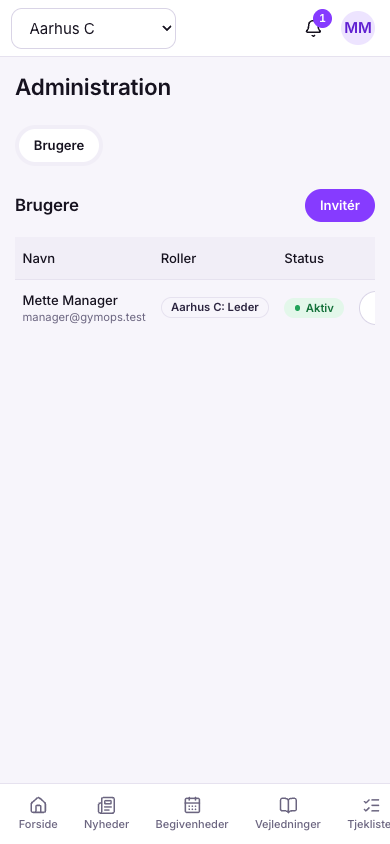
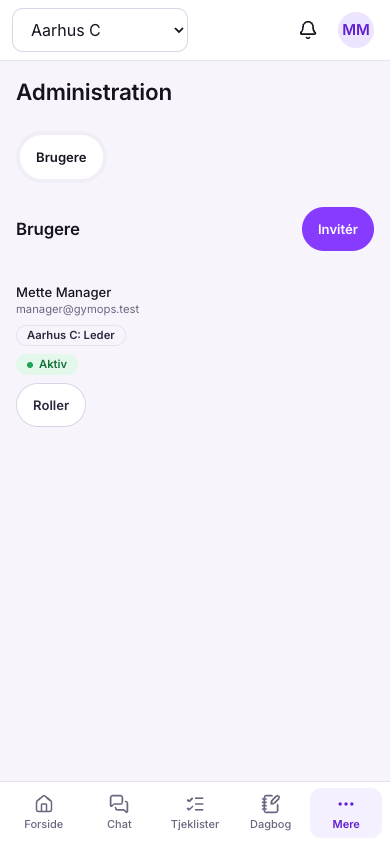
docs: spec §3.2 lists the newer shared components; screens re-captured after P7M-01 … 06
Claude-Session: https://claude.ai/code/session_017Ea1VhKH4BnbZhQb5kz3Mv

diff --git a/PROJECT_STATE.md b/PROJECT_STATE.md
@@ -4,7 +4,7 @@ Last updated: 2026-09-06
 
 ## Currently working on
 
-**Phone critique fixes (P7M-01 … P7M-06, 2026-09-06)** on branch `mobile-p0`, from an `/impeccable critique` of the phone layout at 390 px (26/40; not AI slop, chat is the high point, the home page and the bar are the weak points). Decided with Rami: token fixes first, scope P0 + P1, no constraints. P7M-01 done: `--spacing: 4px` in `@theme` (the 15 px root made every `h-11` / `size-11` control 41.25 px, so DESIGN.md's 44 px rule was false in production) and `Input`, `Textarea`, `NativeSelect` at `text-[16px]` (they were 15 px, the daily-log, incident, comment and Ask textareas 13 px, so iOS zoomed into every field but the chat composer; the per-screen `text-sm` overrides and the composer's own `text-[16px]` are gone). Measured after in Chrome through Playwright at 390 px: bell, avatar, Send, Attach, inputs 44 px, every field 16 px. P7M-02 done: the bar is Home, Chat, Checklists, Daily log and a More tab (`phoneNav()` in `nav.ts`, `MoreTab` in the shell) that opens a bottom `Sheet` (vendored, restyled like `dialog`) with the rest, 44 px rows, closed on pick, and reads as the current tab inside one of its sections; the sidebar still lists everything. P7M-03 done: Home is `PageHeader` "Right now", one primary button (`NextAction`: the first unfinished checklist of the day, else "Add to the log"), then four `HomeSection`s (news, today's checklists, open incidents, latest log entry) as headings with 44 px `HomeRow` links and one muted line when empty; the four `*Card` components are `*Section` now, and the manager's week card stays as the one card below. Shape brief confirmed by Rami before building (five tabs with Incidents behind More, a sheet not a page, one list with one button). Verified in Chrome through Playwright at 390 and 1280 px. P7M-04 done as `/impeccable polish`: `Button size="sm"` and `Toggle` are 44 px below `md` and dense from it (one token change instead of fifty call sites), every time with an hour prints `hourCycle: 'h23'` (the inbox, the log, incidents, checklist ticks; chat already did), and reactions are opt-in: `notification_pref()` defaults `chat_reaction` to off on every channel (migration `20260906120000`), the client `defaultPref` agrees, pgTAP 140 (+1) and 280 adjusted, 556 → 557 assertions green after `db:reset`. Decided with Rami: opt-in rather than dropping the trigger. #23 merged (squash, 67e7efc). A second `/impeccable critique` at 390 px scored 26/40 again with a different shape (P0s gone, `/ask` and generic error copy now the low points); Rami picked the three P1s plus the Home button wrap as P7M-05, on branch `mobile-p1`: `Switch` `before:-inset-y-[14px]` (was 41 px), the checklist row is one `<label>` around tick and text with the note `Input` behind an "Add a note" ghost button (shown at once when a note exists), a "Report one" link beside Open incidents on Home with the "All N open" link under the rows, and the Home button `whitespace-normal h-auto`. #24 merged (d4c3b32). P7M-06 (`/impeccable polish`, branch `mobile-p2`): `/ask` opens with `PageHeader` and the thread title is an h2 (one h1 in the DOM), its back link and delete are `size="icon"`; the admin users table is stacked rows below `md` (`block md:table-row` on one markup, header hidden on a phone); the editor toolbar and guide-tree icon buttons are `size="icon"`, the guide tree row 44 px on a phone; the chat composer has `resize-none`. Still open, both design-system decisions for Rami rather than polish: the dashed `EmptyState` box on eight screens (Home's one-line treatment could replace it), and error copy with a cause (needs a shared error-to-message helper; `/impeccable clarify`). Everything below this paragraph is the earlier history.
+**Phone critique fixes (P7M-01 … P7M-06, 2026-09-06)** on branch `mobile-p0`, from an `/impeccable critique` of the phone layout at 390 px (26/40; not AI slop, chat is the high point, the home page and the bar are the weak points). Decided with Rami: token fixes first, scope P0 + P1, no constraints. P7M-01 done: `--spacing: 4px` in `@theme` (the 15 px root made every `h-11` / `size-11` control 41.25 px, so DESIGN.md's 44 px rule was false in production) and `Input`, `Textarea`, `NativeSelect` at `text-[16px]` (they were 15 px, the daily-log, incident, comment and Ask textareas 13 px, so iOS zoomed into every field but the chat composer; the per-screen `text-sm` overrides and the composer's own `text-[16px]` are gone). Measured after in Chrome through Playwright at 390 px: bell, avatar, Send, Attach, inputs 44 px, every field 16 px. P7M-02 done: the bar is Home, Chat, Checklists, Daily log and a More tab (`phoneNav()` in `nav.ts`, `MoreTab` in the shell) that opens a bottom `Sheet` (vendored, restyled like `dialog`) with the rest, 44 px rows, closed on pick, and reads as the current tab inside one of its sections; the sidebar still lists everything. P7M-03 done: Home is `PageHeader` "Right now", one primary button (`NextAction`: the first unfinished checklist of the day, else "Add to the log"), then four `HomeSection`s (news, today's checklists, open incidents, latest log entry) as headings with 44 px `HomeRow` links and one muted line when empty; the four `*Card` components are `*Section` now, and the manager's week card stays as the one card below. Shape brief confirmed by Rami before building (five tabs with Incidents behind More, a sheet not a page, one list with one button). Verified in Chrome through Playwright at 390 and 1280 px. P7M-04 done as `/impeccable polish`: `Button size="sm"` and `Toggle` are 44 px below `md` and dense from it (one token change instead of fifty call sites), every time with an hour prints `hourCycle: 'h23'` (the inbox, the log, incidents, checklist ticks; chat already did), and reactions are opt-in: `notification_pref()` defaults `chat_reaction` to off on every channel (migration `20260906120000`), the client `defaultPref` agrees, pgTAP 140 (+1) and 280 adjusted, 556 → 557 assertions green after `db:reset`. Decided with Rami: opt-in rather than dropping the trigger. #23 merged (squash, 67e7efc). A second `/impeccable critique` at 390 px scored 26/40 again with a different shape (P0s gone, `/ask` and generic error copy now the low points); Rami picked the three P1s plus the Home button wrap as P7M-05, on branch `mobile-p1`: `Switch` `before:-inset-y-[14px]` (was 41 px), the checklist row is one `<label>` around tick and text with the note `Input` behind an "Add a note" ghost button (shown at once when a note exists), a "Report one" link beside Open incidents on Home with the "All N open" link under the rows, and the Home button `whitespace-normal h-auto`. #24 merged (d4c3b32). P7M-06 (`/impeccable polish`, branch `mobile-p2`, PR #25): `/ask` opens with `PageHeader` and the thread title is an h2 (one h1 in the DOM), its back link and delete are `size="icon"`; the admin users table is stacked rows below `md` (`block md:table-row` on one markup, header hidden on a phone); the editor toolbar and guide-tree icon buttons are `size="icon"`, the guide tree row 44 px on a phone; the chat composer has `resize-none`. Still open, both design-system decisions for Rami rather than polish: the dashed `EmptyState` box on eight screens (Home's one-line treatment could replace it), and error copy with a cause (needs a shared error-to-message helper; `/impeccable clarify`). Everything below this paragraph is the earlier history.
 **Reply, React, Copy (P6C-17 … P6C-19) merged as PR #22 (squash, 2026-09-06 00:17)**, from branch `chat-actions` (plan: `~/.claude/plans/build-all-three-plan-recursive-flame.md`). Rami picked three of WhatsApp's nine message actions; decided with him: four fixed reactions, both a reply and a reaction notify the line's author, counts on the bubble with names on tap. Database: `messages.reply_to` (same channel, `guard_message_reply()`, pinned in `guard_message_edit()`), `message_reactions` (pk message/user/emoji, emoji check, `channel_id` pinned from the message by `guard_reaction_insert()` so the Realtime filter and the insert policy see it, `replica identity full`, in the publication), enum labels `chat_reply` / `chat_reaction` in their own migration, `notify_chat_message()` extended and `notify_message_reaction()` added. Frontend: `useToggleReaction` (optimistic, rolled back on refusal), `replyTo` through `useSendMessage`, one `…` menu per line, quote block with jump (older pages fetched, at most five), `BubbleReactions` chip + names `Dialog`, "Replying to" strip, Copy with a toast, a second `postgres_changes` listener on the channel topic, `speaker.ts` for names. pgTAP 260/270/280 (+37, 556 total). Refined with Rami on 5174 before the merge, against WhatsApp side by side: the menu trigger is a bare chevron in the bubble's top corner (no fill, the row keeps 28 px clear for it beside the name or the time); a round smiley beside the bubble opens the four emoji in a pill above it and the menu's React entry opens the same; the chip is a 28 px white pill without stroke showing the faces and one total once there is more than one, with a 44 px hit area, and the who-reacted dialog has an "All N" tab and one per emoji with own rows removable on tap; a new face pops in (`animate-reaction-pop`, 260 ms); menu items are 36 px from `md` up (44 on a phone). **Merged without GitHub CI on the last commits: Actions refused to start jobs ("recent account payments have failed or your spending limit needs to be increased"), a billing setting Rami has to fix; local gates were green (typecheck, lint, format, 409 unit tests, build, 556 pgTAP).** Everything below this paragraph is the earlier history.
 **Round-four critique fixes (P6C-16, 2026-09-05, 26/40 before):** decided with Rami: phone header and jump gutter first, `--bubble-own` alias, scope P1 + P2. Done: the shell header is not rendered on `/chat/:id` below `md` (`isConversation()` in `nav.ts` and `usePhone()` in `src/hooks/use-media-query.ts`, decided in JS because the bell holds a Realtime subscription and may exist only once) and the chat header carries the `NotificationBell` there; the scroller viewport keeps `pr-14` while the jump button is active and the badge counts lines by others, unread at open, below the last visible line; a failed send stays in the stream marked "Not sent" (`danger` tone) with a 44 px Try again that drops the failed copy and sends again (`useForgetFailed`), the box empties on submit and the duplicate "Sending…" line and the pending guard on the button are gone; the "New" chip is the solid violet `UnreadCount` pill and own bubbles are `--bubble-own`; links are named by path or host + short path with the address in `title`; bubbles cap at `min(80%, 60ch)`; DESIGN.md §Chat no longer says names are in the accent.
 **Bubble critique fixes (P6C-15, 2026-09-05):** a bubble-scoped `/impeccable critique` scored the stream 26/40. Decided with Rami: own bubbles on `--tone-new-bg`, Delete revealed by tapping the bubble on a phone, scope P1 + P2. Done: own surface (`tinted` = `bg-tone-new-bg`), body text back to 15 px (the vendored `Message` dropped `text-sm`), "Jump to latest" as a round icon button bottom right with an unread-below badge (`useMessageScrollerVisibility`), sender names in the text colour with a `highlight` bubble variant (violet hairline) for the line that names the reader, an author span on every bubble (`sr-only` when own or continued), the trash icon `pointer-events-none` while hidden and revealed by tap / hover / focus, the pending clock `aria-hidden` (the `role="status"` text already says it), and DESIGN.md §Chat rewritten to what ships.

diff --git a/PROJECT_SPEC.md b/PROJECT_SPEC.md
@@ -102,8 +102,9 @@ RLS helpers: `is_superadmin()`, `is_admin()`, `member_gym_ids()`, `managed_gym_i
 gymops/
   src/
     components/             shared composition layer (Logo, PageHeader, EmptyState,
-                             LoadingState, StatusBadge, Markdown); features compose these and
-                             reach into components/ui/ only for what these don't cover
+                             LoadingState, StatusBadge, Markdown, ConfirmDialog, UnreadCount,
+                             HomeSection and its rows); features compose these and reach into
+                             components/ui/ only for what these don't cover
     components/ui/          shadcn/ui primitives
     features/<module>/      components, hooks, queries, types per feature
     hooks/                  app-wide hooks (a media query, for DOM that differs by width)
